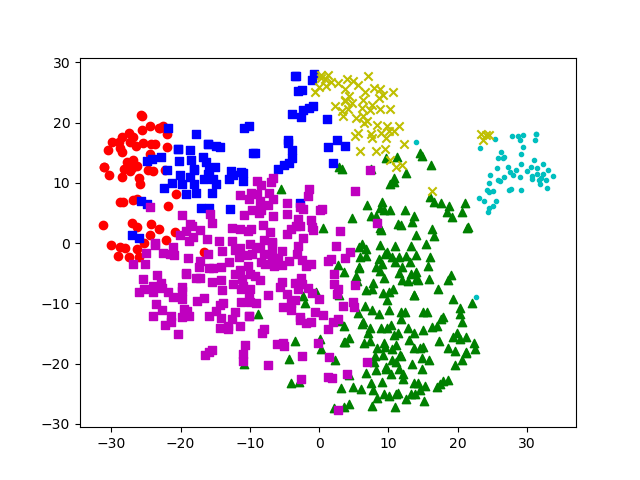
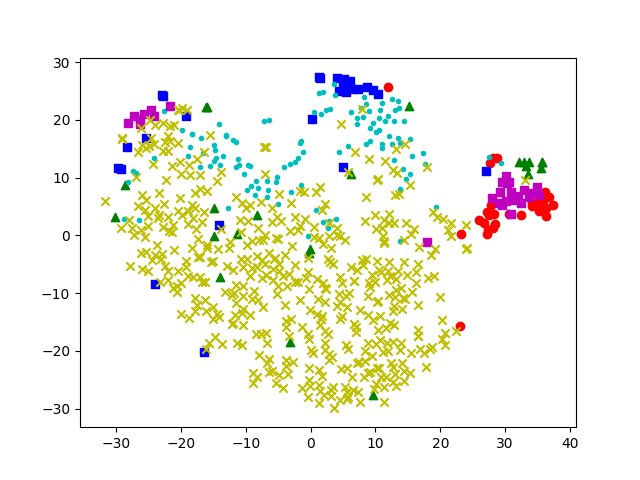
Update parameters in EM and Spectral

diff --git a/clustering.py b/clustering.py
@@ -46,6 +46,17 @@ def tsneG(X):
     plt.savefig("raw.png")
     plt.close()
 
+#Optimization implementation that test inverted matrix
+def OptimizeInverse(pred):
+    a = accuracy_score(pred, labels)
+    b = accuracy_score(pred, labelsi)
+    if a<b:
+        pred[pred == 0] = 12
+        pred[pred == 1] = 0
+        pred[pred == 12] = 1
+        return pred,b
+    else:
+        return pred,a
 
 # Cure implementation
 def Cure(input_data, n):
@@ -60,14 +71,16 @@ def Cure(input_data, n):
 
 # EXpectation Mximization implementation
 def ExpectationMMaximization(Mat, n):
-    exp_instance = expectationMaximization(n_components=n)
-    exp_instance.fit(Mat)
-    pred = exp_instance.predict(Mat)
-    print(pred)
-    print("ACC: " + str(accuracy_score(pred, labels)))
-    acc["EXP" + str(n)] = str(accuracy_score(pred, labels))
-    tsnePlot(pred, n, Mat, 'EXP')
+    exp_instance = expectationMaximization(n_components=n, covariance_type="tied",max_iter=1500,
+                                           tol=1e-6,reg_covar=1e-9,init_params="random",warm_start=False,
+                                           random_state=25)
 
+    pred = exp_instance.fit_predict(Mat)
+    pred= OptimizeInverse(pred)
+    print(pred[0])
+    print("ACC: " + str((pred[1])))
+    acc["EXP" + str(n)] = str((pred[1]))
+    tsnePlot(pred[0], n, Mat, 'EXP')
 
 # dbscan implemenation - no reciben k de input
 def dbscan(Mat, n):
@@ -105,10 +118,15 @@ def kmeans(X, n):
 
 # spectarl implementation
 def spect(input_data, n):
-    spec_instance = SpectralCoclustering(n_clusters=n)
+    t=0
+    d=0
+    #for a in range(0,9):
+    spec_instance = SpectralCoclustering(n_clusters=n,#svd_method='arpack',n_svd_vecs=100,
+                                         init="random",n_init=20, n_jobs=2,random_state=0)
     spec_instance.fit(input_data)
     pred = spec_instance.row_labels_
     print(pred)
+
     print("ACC: " + str(accuracy_score(pred, labels)))
     acc["SPECT" + str(n)] = str(accuracy_score(pred, labels))
     tsnePlot(pred, n, input_data, 'SPECT')
@@ -234,6 +252,7 @@ if __name__ == '__main__':
 
     matrix = pd.read_csv("features_Modified.csv", delimiter=',', header=None)
     labels = pd.read_csv('labels(1VT-0LP).csv', header=None)
+    labelsi=pd.read_csv('labels(1VT-0LP)INV.csv',header=None)
     print(path)
 
     # Starting BFR tests so branch new test
@@ -249,11 +268,12 @@ if __name__ == '__main__':
     print("CURE  TEST:\n")
     for i in range(2, 11):
         Cure(matrix, i)
-
+    
     # Start Exp. Max test
     print("EXPECTATION MAXIMIZATION  TEST:\n")
     for i in range(2, 11):
         ExpectationMMaximization(matrix, i)
+
     # Start Spectral test
     print("SPECT  TEST:\n")
     for i in range(2, 11):
@@ -273,5 +293,5 @@ if __name__ == '__main__':
         birch(matrix, i, 0.75, 53)
     # subprocess.call("python3 Cure.py ", shell=True)
     #print(birchMaxAcc,birchBranching,birchThreshold)
+
     print(acc)
-    print("hello world")
